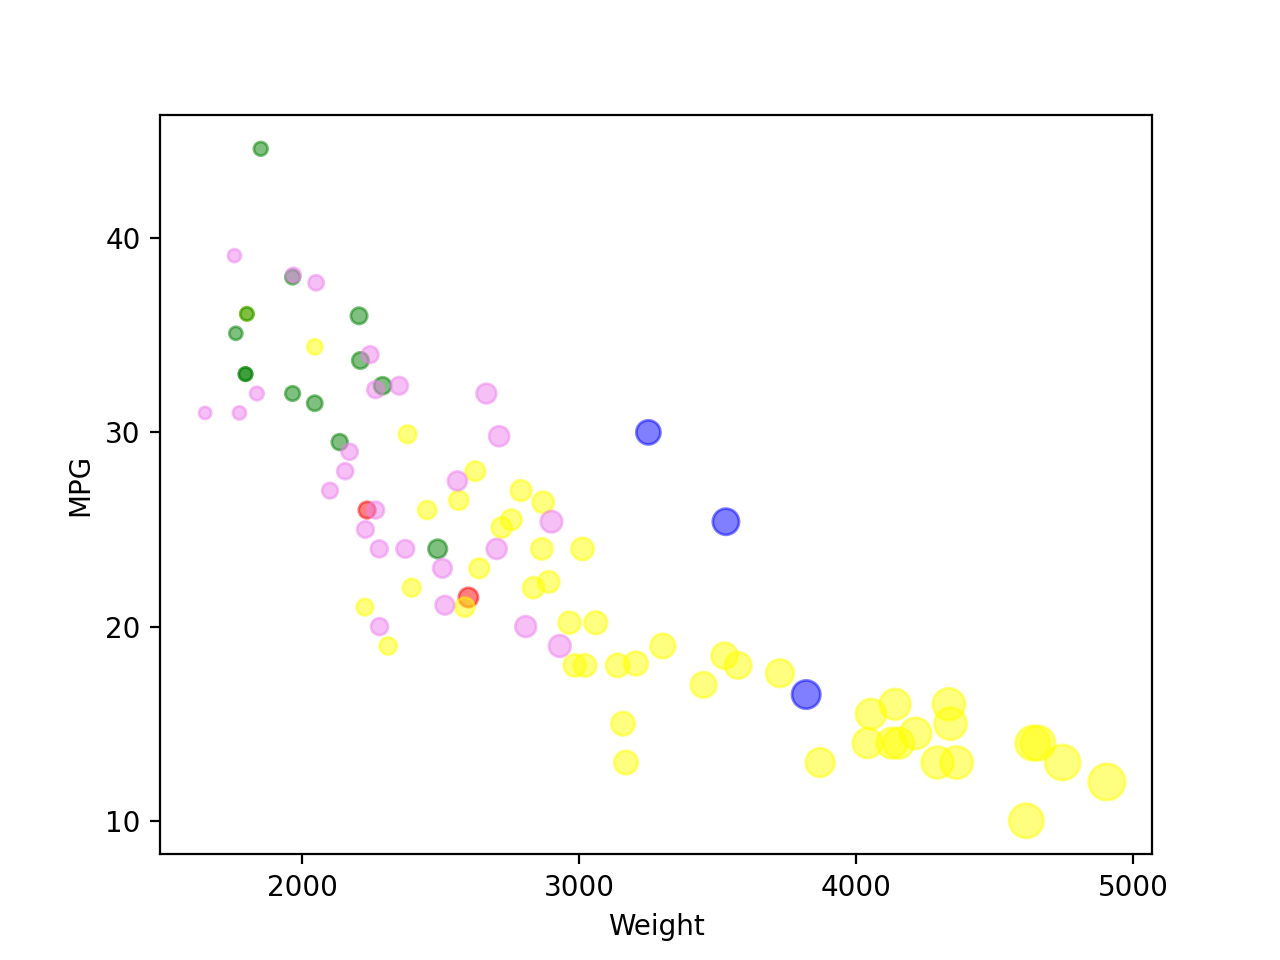
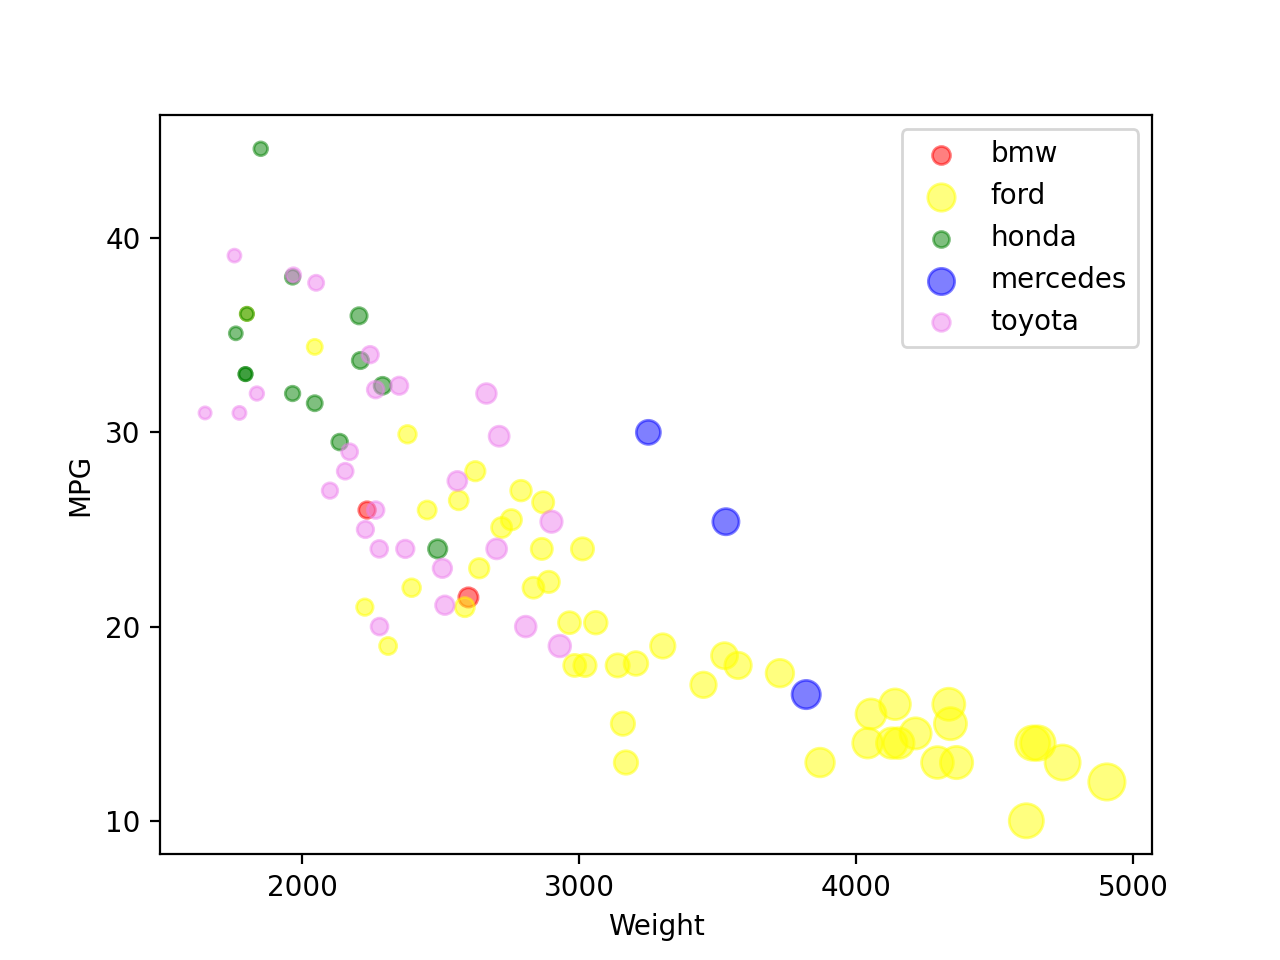
Legend for matplot

Changed region(s): [[0.7188, 0.125, 0.9062, 0.375]]

diff --git a/python/matplot.py b/python/matplot.py
@@ -11,13 +11,14 @@ colors = ['red','yellow', 'green', 'blue', 'violet']
 ax = None
 
 for group, color in zip(groups, colors):
+    manufacturer = group['Manufacturer'].values[0]
     if ax is None:
-        ax = group.plot.scatter(x='Weight', y='MPG', s=pow((group['Weight'] / 750 )* 2, 2), color=color, alpha=0.5)
+        ax = group.plot.scatter(x='Weight', y='MPG', s=pow((group['Weight'] / 750 )* 2, 2), color=color, alpha=0.5, label=manufacturer)
     else:
-        ax = group.plot.scatter(x='Weight', y='MPG', s=pow((group['Weight'] / 750 )* 2, 2), ax=ax, color=color, alpha=0.5)
+        ax = group.plot.scatter(x='Weight', y='MPG', s=pow((group['Weight'] / 750 )* 2, 2), ax=ax, color=color, alpha=0.5, label=manufacturer)
 
 ax.set_xticks([2000,3000,4000,5000])
 ax.set_yticks([10,20,30,40])
-
+ax.legend()
 #plot = df.plot.scatter(x='Weight', y='MPG', s=pow((df['Weight'] / 750 )* 2, 2))
 plt.show()
